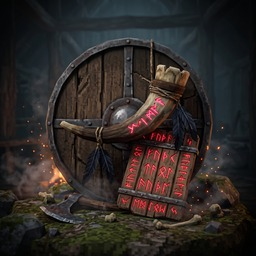
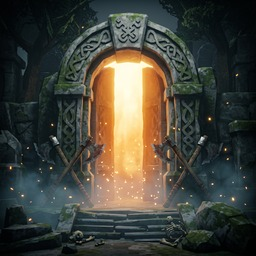
"release: prepare Thunderstore v1.0.1 release"

diff --git a/ValgrindPlugin.cs b/ValgrindPlugin.cs
@@ -15,7 +15,7 @@ namespace Valgrind
     {
         public const string PluginGUID = "com.bigai.valgrind";
         public const string PluginName = "Valgrind";
-        public const string PluginVersion = "1.0.0";
+        public const string PluginVersion = "1.0.1";
 
         public static ValgrindPlugin Instance { get; private set; } = null!;
         public static ManualLogSource Log { get; private set; } = null!;

diff --git a/CHANGELOG.md b/CHANGELOG.md
@@ -1,3 +1,7 @@
+## v1.0.1
+
+- Corrected mod icon
+
 ## v1.0.0
 
 ### Initial Release
